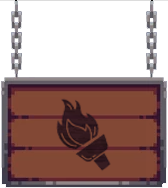
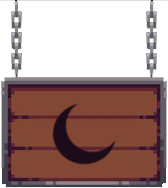
correccion de cambios en la main page 24-feb

Changed region(s): [[0.2976, 0.5053, 0.6845, 0.9043]]

diff --git a/index.html b/index.html
@@ -10,6 +10,7 @@
   </head>
   <body>
     <header>
+      <div class="bkg-img">
         <nav>
           <div class="nav-box1">
             <ul>
@@ -23,10 +24,13 @@
             <img id="sign" src="./publics/img/sign1.png" alt="sign of light" />
           </div>
         </nav>
+      </div>
+
+      <div class="bkg-grad"><br /></div>
     </header>
 
     <main>
-      <section class="text">
+      <section id="inicio" class="text">
         <h1>Bienvenido a mi Portfolio</h1>
         <p>
           ¡Hola! Soy Fede Iacono, y aquí puedes ver algunos de mis proyectos.
@@ -49,7 +53,24 @@
           amet consectetur adipisicing elit. Quo voluptates inventore corrupti
           dolorum debitis fugit esse quas delectus a molestiae suscipit
           voluptatibus saepe ut veritatis accusamus eum, doloremque, alias
-          consequuntur!
+          consequuntur! Lorem ipsum dolor sit amet consectetur adipisicing elit.
+          Quo voluptates inventore corrupti dolorum debitis fugit esse quas
+          delectus a molestiae suscipit voluptatibus saepe ut veritatis
+          accusamus eum, doloremque, alias consequuntur! Lorem ipsum dolor sit
+          amet consectetur adipisicing elit. Quo voluptates inventore corrupti
+          dolorum debitis fugit esse quas delectus a molestiae suscipit
+          voluptatibus saepe ut veritatis accusamus eum, doloremque, alias
+          consequuntur! Lorem ipsum dolor sit amet consectetur adipisicing elit.
+          Quo voluptates inventore corrupti dolorum debitis fugit esse quas
+          delectus a molestiae suscipit voluptatibus saepe ut veritatis
+          accusamus eum, doloremque, alias consequuntur! Lorem ipsum dolor sit
+          amet consectetur adipisicing elit. Quo voluptates inventore corrupti
+          dolorum debitis fugit esse quas delectus a molestiae suscipit
+          voluptatibus saepe ut veritatis accusamus eum, doloremque, alias
+          consequuntur! Lorem ipsum dolor sit amet consectetur adipisicing elit.
+          Quo voluptates inventore corrupti dolorum debitis fugit esse quas
+          delectus a molestiae suscipit voluptatibus saepe ut veritatis
+          accusamus eum, doloremque, alias consequuntur!
         </p>
       </section>
 
@@ -73,8 +94,9 @@
             >
               <path
                 d="M368.5 240h-225c-8.8 0-16 7.2-16 16 0 4.4 1.8 8.4 4.7 11.3 2.9 2.9 6.9 4.7 11.3 4.7h225c8.8 0 16-7.2 16-16s-7.2-16-16-16z"
-              ></path></svg
-            ><svg
+              ></path>
+            </svg>
+            <svg
               stroke="currentColor"
               fill="currentColor"
               stroke-width="0"
@@ -91,8 +113,9 @@
                 <path
                   d="M3 3h18a1 1 0 0 1 1 1v16a1 1 0 0 1-1 1H3a1 1 0 0 1-1-1V4a1 1 0 0 1 1-1zm17 8H4v8h16v-8zm0-2V5H4v4h16zm-5-3h4v2h-4V6z"
                 ></path>
-              </g></svg
-            ><svg
+              </g>
+            </svg>
+            <svg
               stroke="currentColor"
               fill="currentColor"
               stroke-width="0"
@@ -148,6 +171,50 @@
             </tr>
           </table>
         </div>
+      </section>
+
+      <section class="text">
+        <h1>Bienvenido a mi Portfolio</h1>
+        <p>
+          ¡Hola! Soy Fede Iacono, y aquí puedes ver algunos de mis proyectos.
+        </p>
+        <p>
+          Lorem ipsum dolor sit amet consectetur adipisicing elit. Quo
+          voluptates inventore corrupti dolorum debitis fugit esse quas delectus
+          a molestiae suscipit voluptatibus saepe ut veritatis accusamus eum,
+          doloremque, alias consequuntur! Lorem ipsum dolor sit amet consectetur
+          adipisicing elit. Quo voluptates inventore corrupti dolorum debitis
+          fugit esse quas delectus a molestiae suscipit voluptatibus saepe ut
+          veritatis accusamus eum, doloremque, alias consequuntur! Lorem ipsum
+          dolor sit amet consectetur adipisicing elit. Quo voluptates inventore
+          corrupti dolorum debitis fugit esse quas delectus a molestiae suscipit
+          voluptatibus saepe ut veritatis accusamus eum, doloremque, alias
+          consequuntur! Lorem ipsum dolor sit amet consectetur adipisicing elit.
+          Quo voluptates inventore corrupti dolorum debitis fugit esse quas
+          delectus a molestiae suscipit voluptatibus saepe ut veritatis
+          accusamus eum, doloremque, alias consequuntur! Lorem ipsum dolor sit
+          amet consectetur adipisicing elit. Quo voluptates inventore corrupti
+          dolorum debitis fugit esse quas delectus a molestiae suscipit
+          voluptatibus saepe ut veritatis accusamus eum, doloremque, alias
+          consequuntur! Lorem ipsum dolor sit amet consectetur adipisicing elit.
+          Quo voluptates inventore corrupti dolorum debitis fugit esse quas
+          delectus a molestiae suscipit voluptatibus saepe ut veritatis
+          accusamus eum, doloremque, alias consequuntur! Lorem ipsum dolor sit
+          amet consectetur adipisicing elit. Quo voluptates inventore corrupti
+          dolorum debitis fugit esse quas delectus a molestiae suscipit
+          voluptatibus saepe ut veritatis accusamus eum, doloremque, alias
+          consequuntur! Lorem ipsum dolor sit amet consectetur adipisicing elit.
+          Quo voluptates inventore corrupti dolorum debitis fugit esse quas
+          delectus a molestiae suscipit voluptatibus saepe ut veritatis
+          accusamus eum, doloremque, alias consequuntur! Lorem ipsum dolor sit
+          amet consectetur adipisicing elit. Quo voluptates inventore corrupti
+          dolorum debitis fugit esse quas delectus a molestiae suscipit
+          voluptatibus saepe ut veritatis accusamus eum, doloremque, alias
+          consequuntur! Lorem ipsum dolor sit amet consectetur adipisicing elit.
+          Quo voluptates inventore corrupti dolorum debitis fugit esse quas
+          delectus a molestiae suscipit voluptatibus saepe ut veritatis
+          accusamus eum, doloremque, alias consequuntur!
+        </p>
       </section>
 
       <section id="contacto">

diff --git a/styles.css b/styles.css
@@ -1,18 +1,26 @@
-/* Estilos base */
 body {
   font-family: Arial, sans-serif;
 }
 
+p {
+  margin-bottom: 20px;
+}
+
+/*-----------------------*/
+/* Header y navbar*/
 header {
-  background: rgba(245, 0, 0, 0.9);
-  background-image: url(publics/img/forest-night.jpg);
-  image-rendering: pixelated;
-  background-position: bottom;
-  opacity: 0.9;
   width: 100%;
   color: #fff;
   z-index: 100;
   position: fixed;
+}
+
+/*-imagen de fondo-*/
+.bkg-img{
+  background-image: url(publics/img/forest-night1.jpg);
+  image-rendering: pixelated;
+  background-position: bottom;
+  opacity: 1;
 }
 
 nav {
@@ -25,15 +33,16 @@ nav {
   padding: 30px;
 }
 
-a:hover{
-  cursor: pointer;
-  text-shadow: 5px 5px 25px rgba(255, 255, 255, 1);
+nav a {
+  color: #fff;
+  text-decoration: none;
 }
 
-nav ul {
-  list-style: none;
-  margin: 0;
-  padding: 0;
+nav a:hover{
+  cursor: pointer;
+  color: #9c9c9c;
+  transition: 200ms;
+  text-shadow: 5px 5px 25px rgba(255, 255, 255, 1);
 }
 
 nav li {
@@ -42,16 +51,6 @@ nav li {
   margin-bottom: 10px;
   margin-top: 10px;
 }
-
-nav a {
-  color: #fff;
-  text-decoration: none;
-}
-/*.nav-box2{
-    position: relative;
-  top: 0;
-    border: 1px #ffffff solid;
-  }*/
 
 #sign {
   width: 60px;
@@ -66,21 +65,33 @@ nav a {
 }
 
 #sign:active {
-  
   transform: rotateY(180deg);
   transition: 300ms;
 }
 
-h1 {
-  margin-top: 100px;
-  font-size: 35px;
-  padding: 20px 0;
+/*-gradiente-*/
+.bkg-grad{
+  font-size: 5px;
+  padding: 2px auto;
+  background: linear-gradient(
+    to bottom,
+    rgb(0, 0, 0) 0%,
+    rgba(0, 0, 0, 0) 100%
+  );
 }
 
+/*--------------------------*/
+/* Contenido del main */
 main {
   margin: auto;
   width: 80%;
   padding: 20px;
+}
+
+main h1 {
+  margin-top: 100px;
+  font-size: 35px;
+  padding: 20px 0;
 }
 
 section {
@@ -98,6 +109,7 @@ td {
   padding: 10px;
 }
 
+/*Formulario*/
 form {
   display: flex;
   flex-direction: column;
@@ -112,36 +124,15 @@ button {
   margin-bottom: 10px;
 }
 
-p {
-  margin-bottom: 20px;
-}
-
-/* Nav bar */
-.container .box {
-  display: flex;
-  align-items: center;
-  justify-content: space-around;
-  flex-direction: row;
-  margin-top: 10px;
-  margin-right: 10px;
-  justify-content: flex-end;
-}
-
-.container .box .box2 {
-  margin-top: 3px;
-  margin-right: 5%;
-  justify-content: flex-end;
-}
-
 /* Ventanas decorativas estilo 'Windows' */
-/* Exterior ventana*/
+/*-Exterior ventana-*/
 .window {
   border-width: 2px;
   border-color: rgb(51, 51, 51);
   border-style: solid;
 }
 
-/* Titulo ventana */
+/*-Titulo ventana-*/
 .window-title {
   padding-left: 3%;
   padding-right: 1%;
@@ -151,21 +142,17 @@ p {
   justify-content: space-between;
 }
 
-/*Contenido de ventana*/
+/*-Contenido de ventana-*/
 .window-content {
   margin: 15px;
 }
 
-/* Modo oscuro (predeterminado)*/
-#dark-mode-button {
-  border-radius: 20%;
-  border-color: #807373;
-  padding-top: 4px;
-  background-color: #ffffff;
-}
+/*--------------------------*/
+/* Modo oscuro/claro */
 
 /* Estilos para el modo claro */
 body {
+  background: linear-gradient(rgb(107, 107, 107), white, white, rgb(107, 107, 107));
   background-color: #ffffff;
   color: #000000;
 }
@@ -176,3 +163,20 @@ body.dark-mode {
   color: #ffffff;
 }
 
+/* Responsive */
+/*-Celular y tablets-*/
+@media screen and (max-width: 356px) {
+  body main h1 {
+    margin: 180px 0 0 0;
+  }
+  
+  .nav-box1{
+    padding: 20px 30px 10px;
+  }
+}
+
+@media screen and (max-width: 597px) {
+  body h1 {
+    margin: 150px 0 0 0;
+  }
+}

diff --git a/script.js b/script.js
@@ -1,3 +1,4 @@
+// -------------Desplazamiento suave--------------
 document.addEventListener("DOMContentLoaded", function () {
   const navLinks = document.querySelectorAll("nav a");
 
@@ -9,7 +10,7 @@ document.addEventListener("DOMContentLoaded", function () {
     event.preventDefault();
     const targetId = event.currentTarget.getAttribute("href");
     const targetElement = document.querySelector(targetId);
-    const headerOffset = 70;
+    const headerOffset = 100;
     const elementPosition = targetElement.getBoundingClientRect().top;
     const offsetPosition = elementPosition - headerOffset;
 
@@ -34,6 +35,15 @@ document.addEventListener("DOMContentLoaded", function () {
   //--------------- Modo oscuro ------------------
   const darkModeToggle = document.getElementById("sign");
   const body = document.body;
+  const imagen = document.getElementById("sign");
+  // Función para actualizar la imagen según el modo
+function updateImage() {
+  if (body.classList.contains("dark-mode")) {
+    imagen.src = "./publics/img/sign1.png";
+  } else {
+    imagen.src = "./publics/img/sign2.png";
+  }
+}
   // Verifica si el usuario ha preferido el modo oscuro en su sistema
   const prefersDarkScheme = window.matchMedia(
     "(prefers-color-scheme: dark)"
@@ -41,9 +51,11 @@ document.addEventListener("DOMContentLoaded", function () {
   // Si ya está en modo oscuro, cambia la apariencia predeterminada del sitio
   if (prefersDarkScheme) {
     body.classList.add("dark-mode");
+    updateImage(); //llama a la funcion de cambiar imagen
   }
   // Cambia entre modos claro y oscuro cuando se hace clic en el botón
   darkModeToggle.addEventListener("click", function () {
     body.classList.toggle("dark-mode");
+    updateImage();
   });
 });
